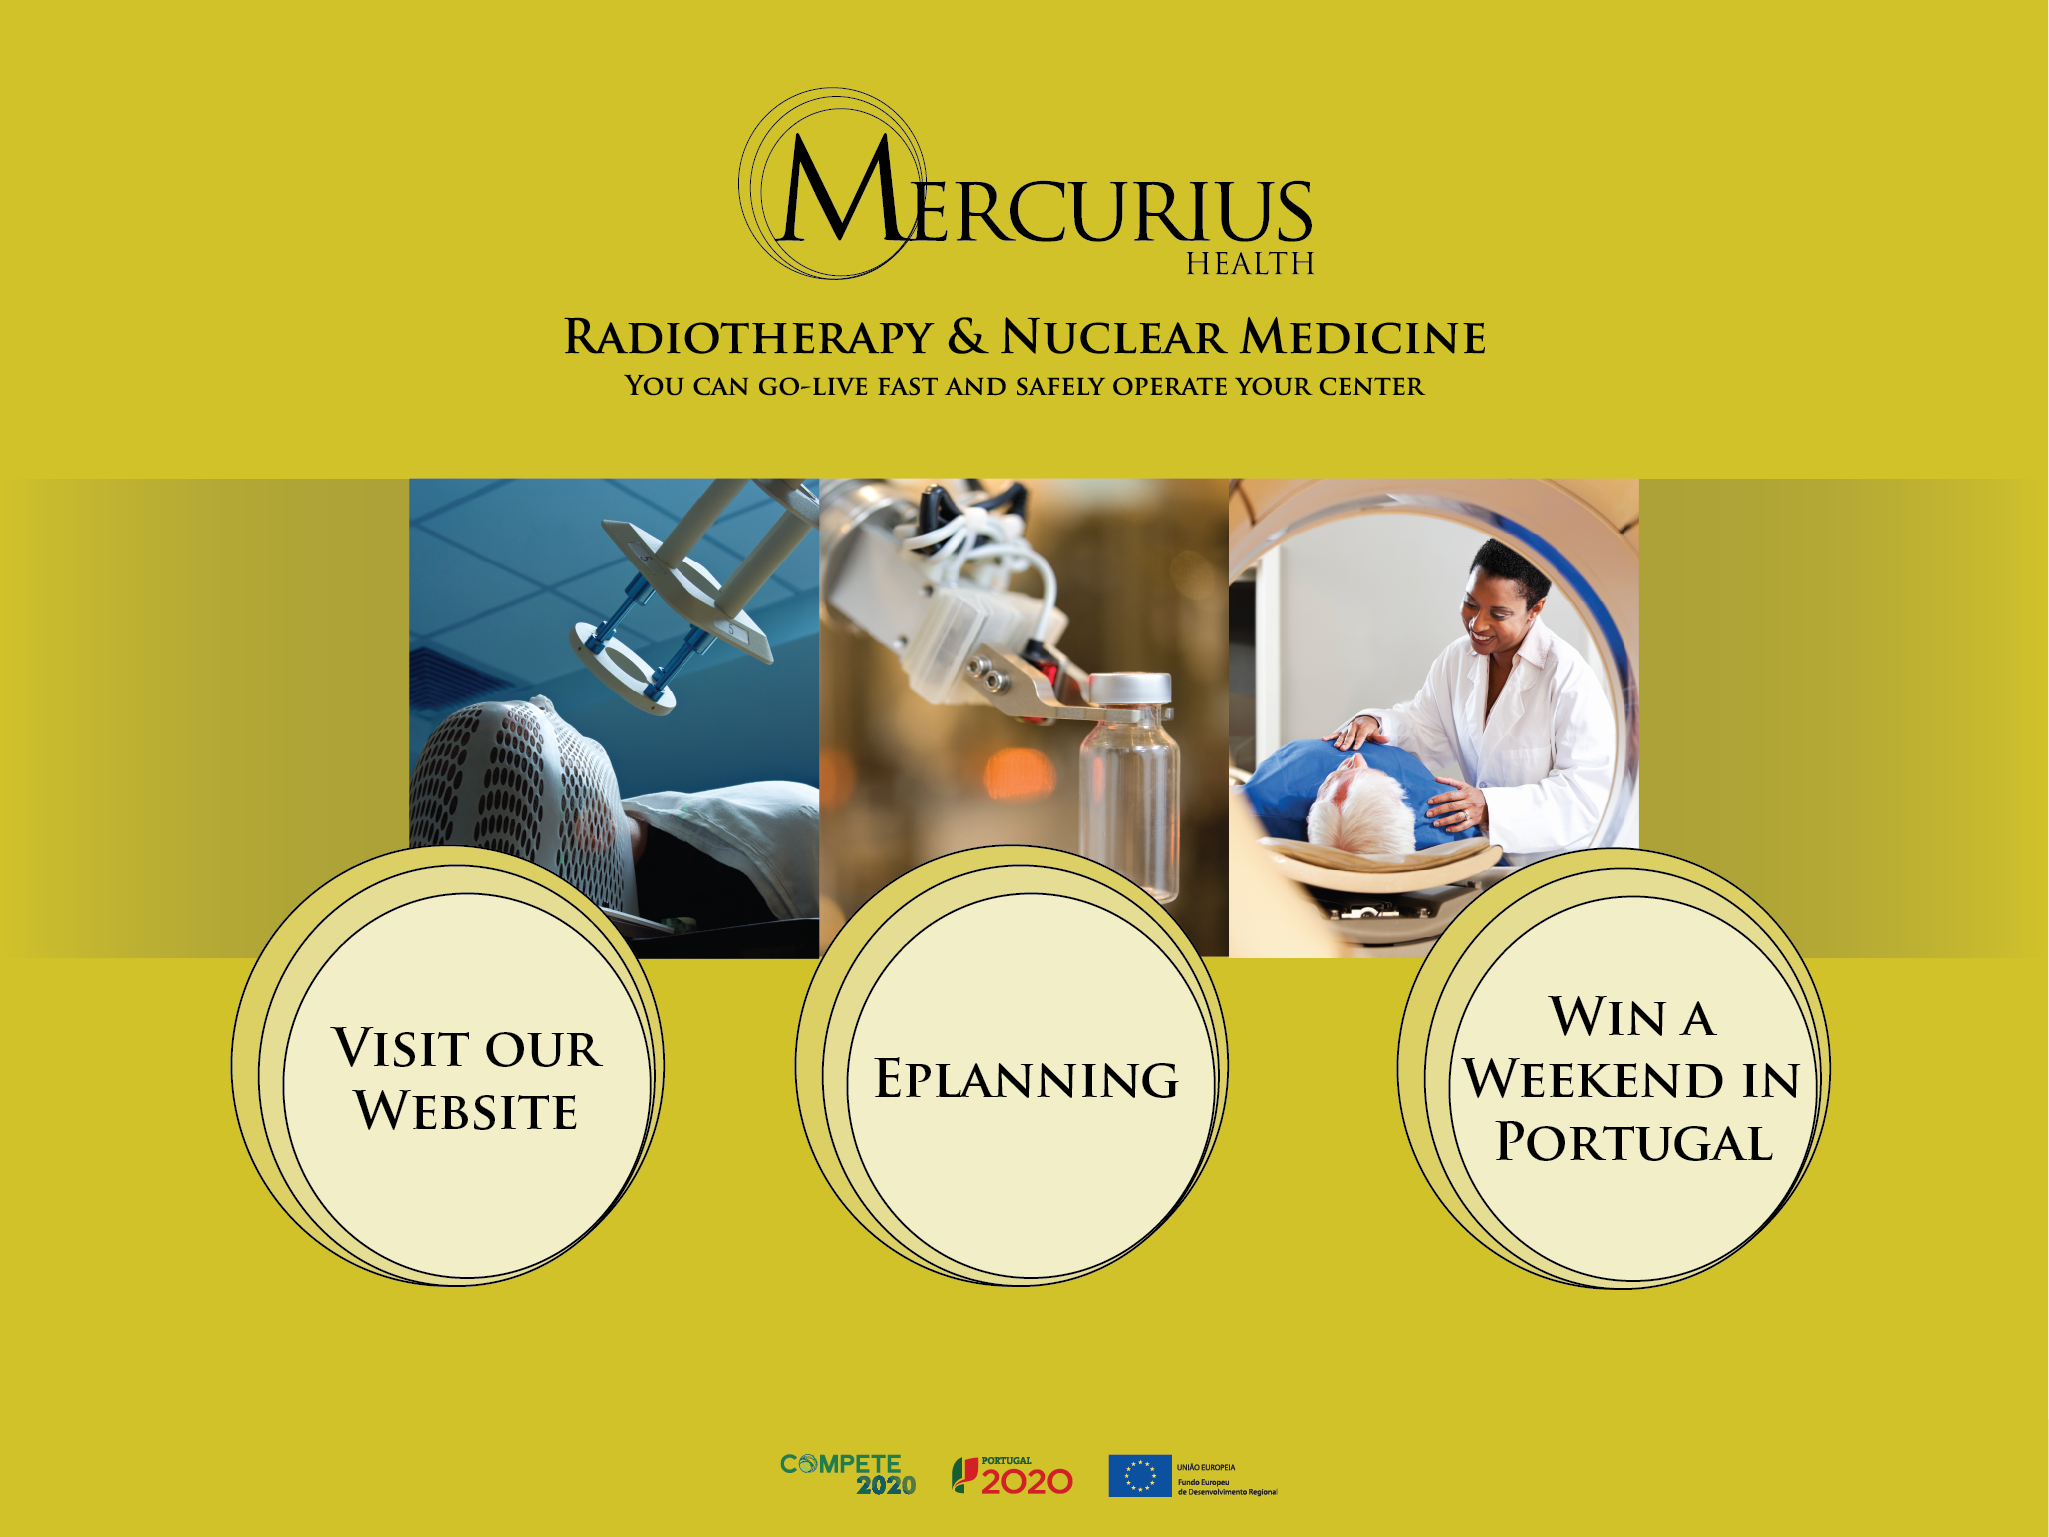
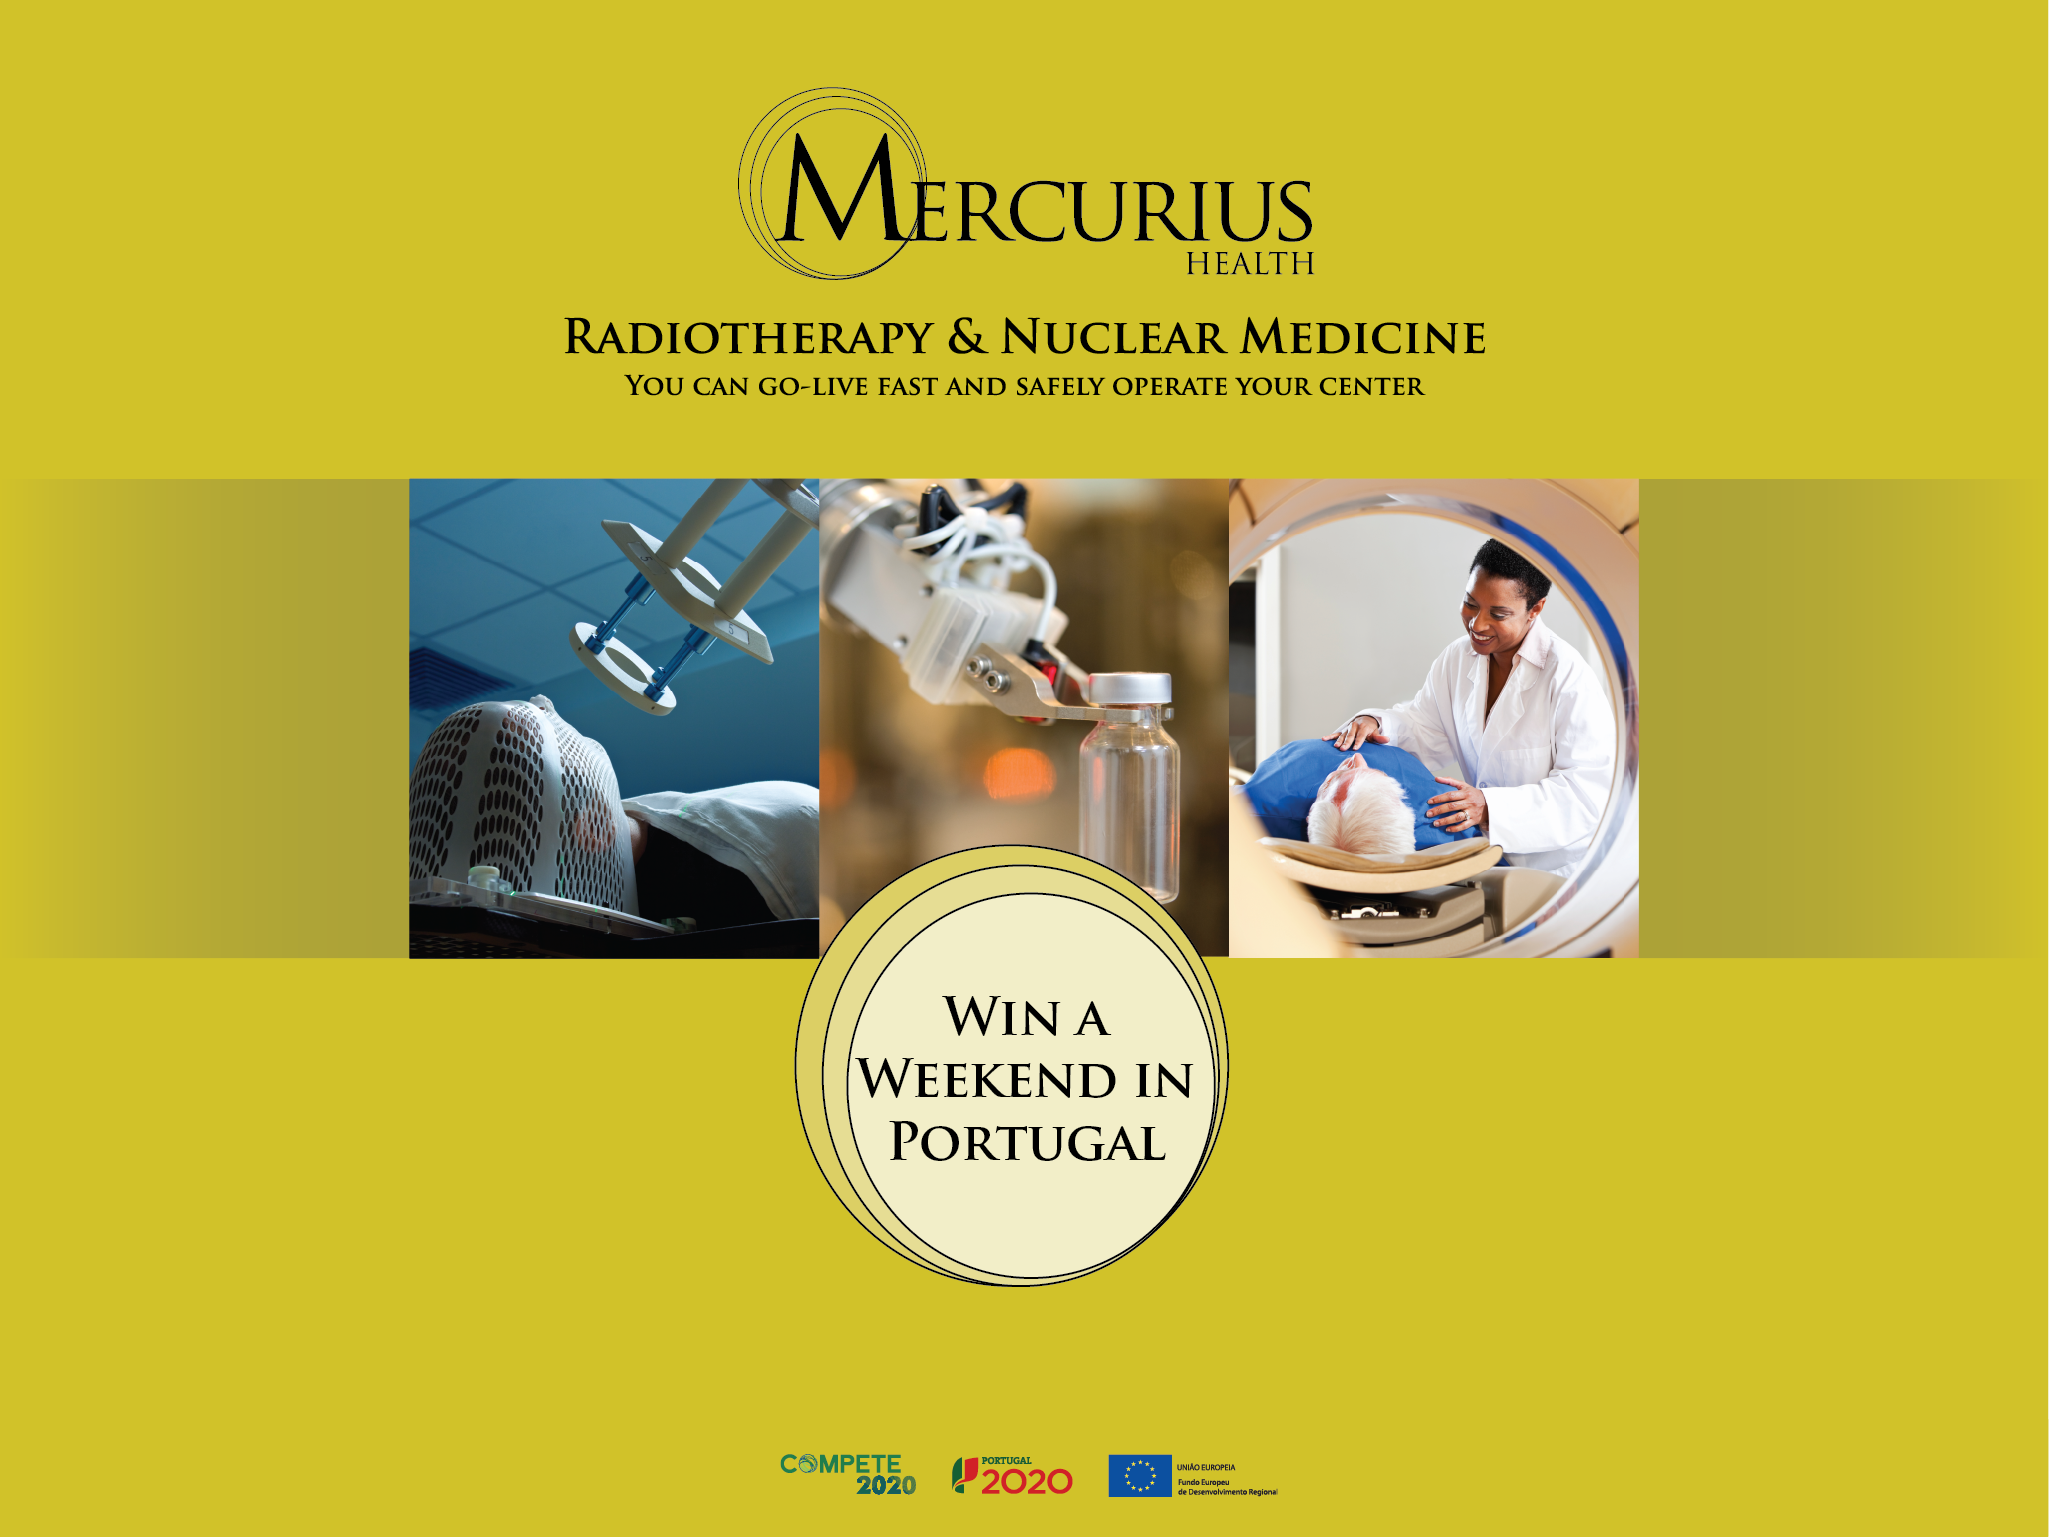
initial commit forked mh

Changed region(s): [[0.0937, 0.5309, 0.3436, 0.8432], [0.6559, 0.5309, 0.9058, 0.8432], [0.4061, 0.6558, 0.5935, 0.7495]]

diff --git a/index.html b/index.html
@@ -12,35 +12,35 @@
 
 <body>
 	<section class="page" id="home">
-		<div id="bt_website" class="btn" onclick="show('website');"></div>
-		<div id="bt_eplanning" class="btn" onclick="show('eplanning');"></div>
+<!-- 		<div id="bt_website" class="btn" onclick="show('website');"></div>
+		<div id="bt_eplanning" class="btn" onclick="show('eplanning');"></div> -->
 		<div id="bt_weekend" class="btn" onclick="show('weekend');"></div>
 		<div id="bt_export" onclick="show('export');"></div>
 	</section>
-	<section class="page" id="website">
+<!-- 	<section class="page" id="website">
 		<iframe src="http://mercuriushealth.com" frameborder="0" height="100%" width="100%" scrolling="auto"
 		sandbox="allow-same-origin allow-scripts allow-forms"></iframe>
 		<div id="bt_back_logo"></div>
 		<div class="bt_back" onclick="show('home');"></div>
-	</section>
-	<section class="page" id="eplanning">
+	</section> -->
+<!-- 	<section class="page" id="eplanning">
 		<div class="bt_back" onclick="show('home');"></div>
 		<div class="vd_wrapper">
 			<iframe id="vd_eplanning" class="vd_iframe" frameborder="0"></iframe>
 		</div>
-	</section>
+	</section> -->
 	<section class="page" id="weekend">
 		<div class="bt_back" onclick="show('home');"></div>
-		<div id="bt_help" class="bt_small" onclick="show('weekend_video');"></div>
+		<!-- <div id="bt_help" class="bt_small" onclick="show('weekend_video');"></div> -->
 		<div id="bt_option1" class="bt_option" onclick="show('registration');"></div>
-		<div id="bt_option2" class="bt_option" onclick="show('weekend_video');"></div>
+		<div id="bt_option2" class="bt_option"></div>
 	</section>
-	<section class="page" id="weekend_video">
+<!-- 	<section class="page" id="weekend_video">
 		<div class="bt_back" onclick="show('weekend');"></div>
 		<div class="vd_wrapper">
 			<iframe id="vd_weekend" class="vd_iframe" frameborder="0"></iframe>
 		</div>
-	</section>
+	</section> -->
 	<section class="page" id="registration">
 		<div class="bt_back" onclick="show('weekend');"></div>
 		<div id="bt_ok" class="" onclick="save();"></div>

diff --git a/js/script.js b/js/script.js
@@ -1,7 +1,7 @@
 var page = $('.page');
 var pagenameHome = 'home';
-var pagenameEplanning = 'eplanning';
-var pagenameWeekendVideo = 'weekend_video';
+// var pagenameEplanning = 'eplanning';
+// var pagenameWeekendVideo = 'weekend_video';
 var pagenameExport = 'export';
 var pagenameTopics = 'topics';
 var inForm = $('#form');
@@ -18,8 +18,8 @@ var cbCommissioning = $('#cb_commissioning');
 var cbTraining = $('#cb_training');
 var cbQuality = $('#cb_quality');
 var cbSupport = $('#cb_support');
-var vdEplanning = $('#vd_eplanning');
-var vdWeekend = $('#vd_weekend');
+// var vdEplanning = $('#vd_eplanning');
+// var vdWeekend = $('#vd_weekend');
 var btExportCSV = $('#bt_export_csv');
 var btReset = $('#bt_reset');
 var btPassword = $('#bt_password');
